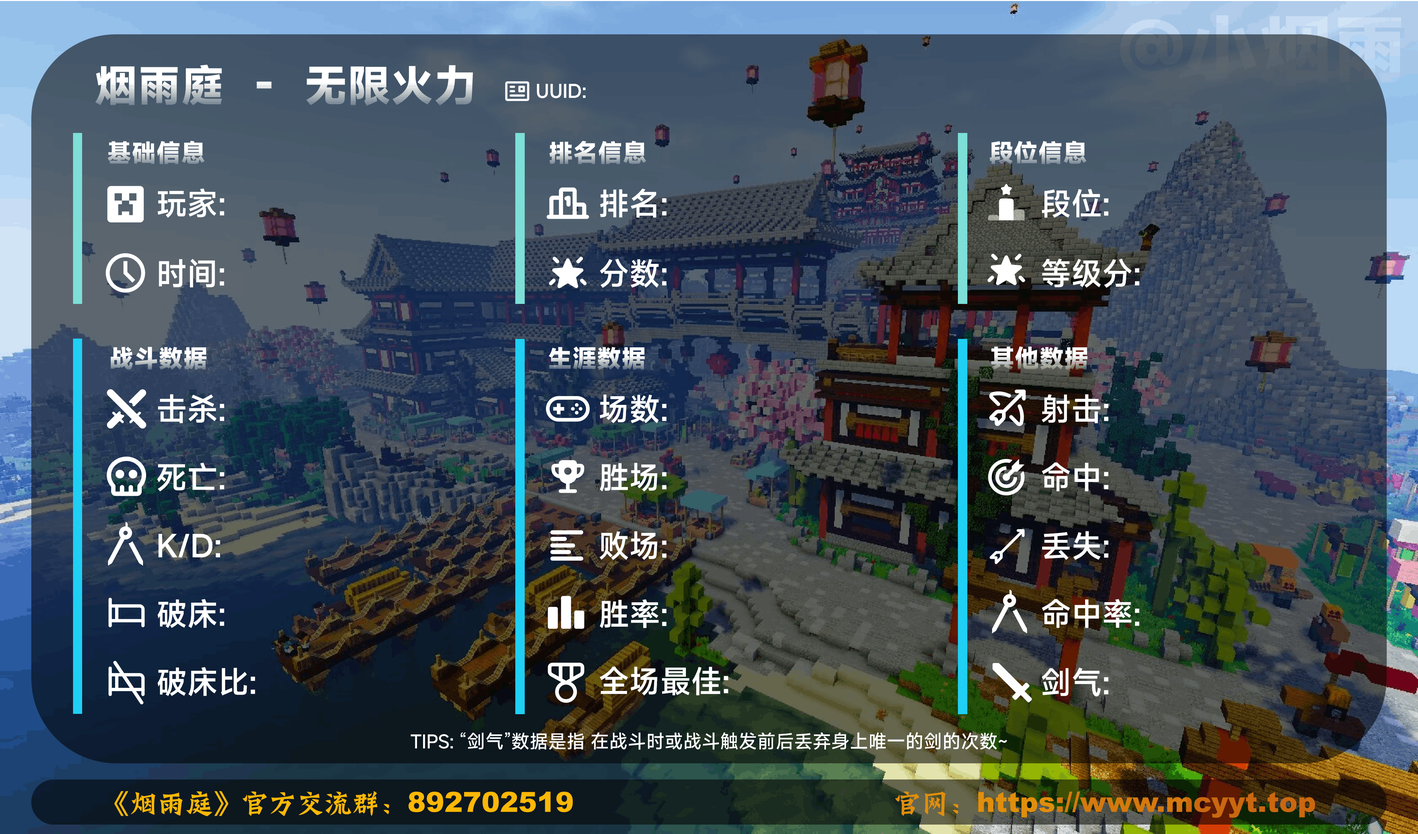
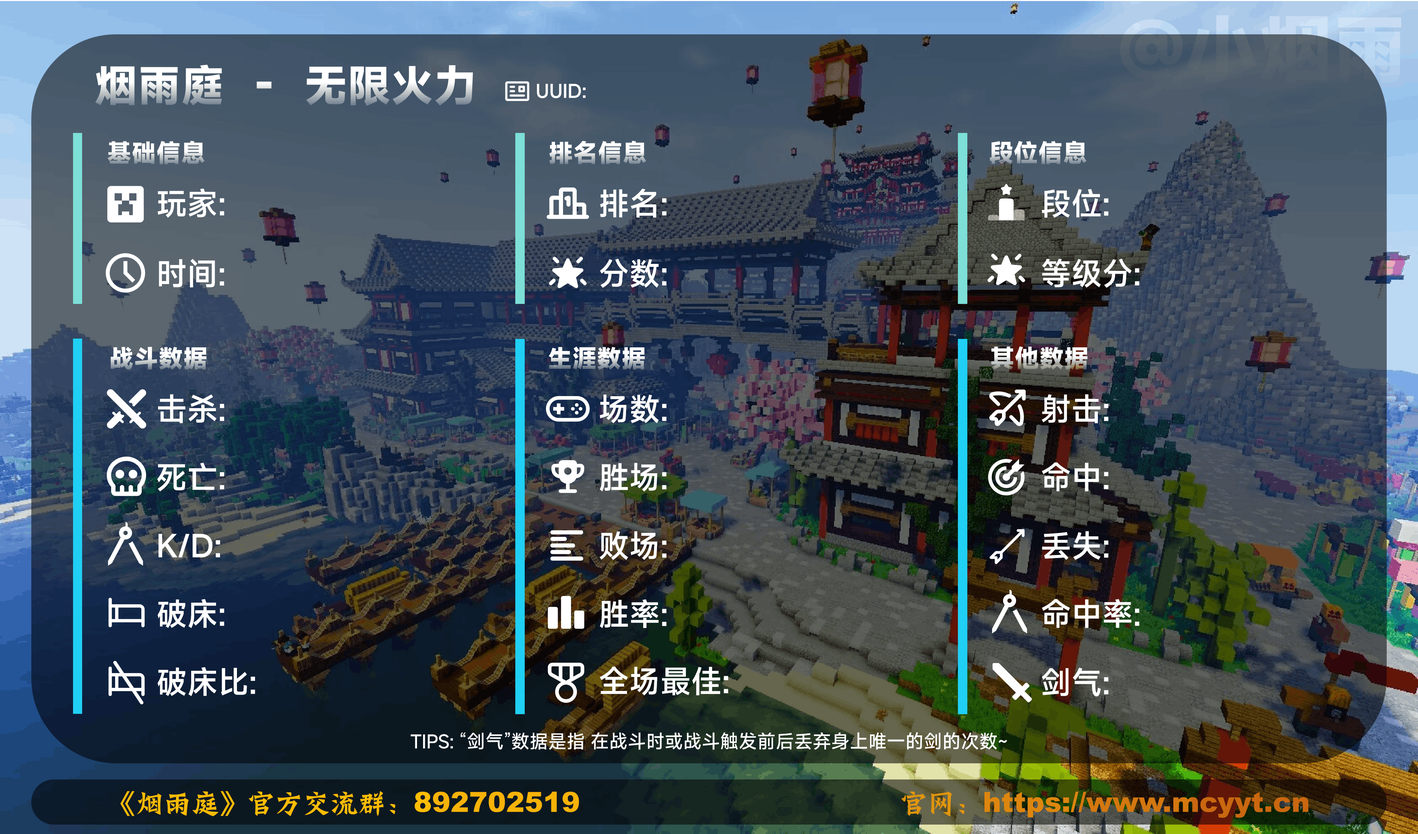
feat: motd迭代; 更换底图

Changed region(s): [[0.6219, 0.9322, 0.9328, 1.0], [0.0933, 0.9322, 0.4042, 0.9944], [0.9639, 0.6525, 1.0, 0.7458]]

diff --git a/app/motdall.py b/app/motdall.py
@@ -35,25 +35,22 @@ async def motdall(json_list):
     maker = ImageMaker(str(bg_path))
 
     xyall = [
-        [1640, 400, 72],
-        [1640, 610, 72],
-        [1640, 820, 72],
-        [1640, 1030, 72],
-        [1640, 1940, 72],
-        [1640, 2150, 72],
-        #[3400, 400, 72],
-        [3400, 610, 72],
-        [3400, 1480, 72],
-        [3400, 2530, 72],
-        [3400, 2840, 72],
+        [1640, 397, 72], # yyt
+        [1640, 1319, 72], # lht 1
+        [1640, 1529, 72], # lht 2
+        [3400, 503, 72], # nmc
+        [3400, 1390, 72], # huh 1
+        [3400, 1585, 72], # huh 2
+        [3400, 2496, 72], # hzw 1
+        [3400, 2698, 72], # hzw 2
     ]
 
     group = [
-        {'x':440,'y':1395,'ar':[1,2,3,4]},
-        {'x':440,'y':2520,'ar':[5,6]},
-        {'x':2184,'y':965,'ar':[7]},
-        {'x':2184,'y':1980,'ar':[8]},
-        {'x':2184,'y':3204,'ar':[9,10]}
+        {'x':440,'y':764,'ar':[1]}, # yyt
+        {'x':440,'y':1910,'ar':[2,3]}, # lht
+        {'x':2184,'y':872,'ar':[4]}, # nmc
+        {'x':2184,'y':1950,'ar':[5,6]}, # huh
+        {'x':2184,'y':3068,'ar':[7,8]} # hzw
     ]
 
     for i, server_data in enumerate(json_list):
@@ -179,30 +176,27 @@ async def motdall(json_list):
         except: pass
 
     maker.text(
-        x=f"200px",
-        y=f"3350px",
+        x=f"110px",
+        y=f"3330px",
         size="60px",
         font_path=str(font_path),
         color="#ffffff",
         opacity=1.0,
         align="left",
-        content=get_current_time()
+        content="查询时间: "+get_current_time()
     )
 
     return maker.save(f"motd_all_{int(time.time()*1000)}.png")
 
 async def todo(way: int = 1):
     servers = [
-        ('mcyyt.top', 25565),
-        ('mc.mcyyt.top', 25565),
-        ('mc2.mcyyt.top', 25565),
-        ('mc3.mcyyt.top', 25565),
+        ('mcyyt.cn', 25565),
         ('hyt.nccc.top', 25565),
         ('hyt.galastar.icu', 25565),
-        #('sq1.hyt.xuebai.xyz', 25565),
         ('frp-ski.com', 44899),
+        ('pc.mchyt.net', 25565),
         ('hyt.backup.wanweitool.cn', 25565),
-        ('mc.huazhiwu.top', 25590),
+        ('mc.huazhiwu.top', 25565),
         ('mc163.gxeea.xyz', 25565)
     ]
     
@@ -246,3 +240,5 @@ async def todo(way: int = 1):
             
     except Exception as e:
         print(f"程序执行出错: {str(e)}")
+
+asyncio.run(todo(1))
